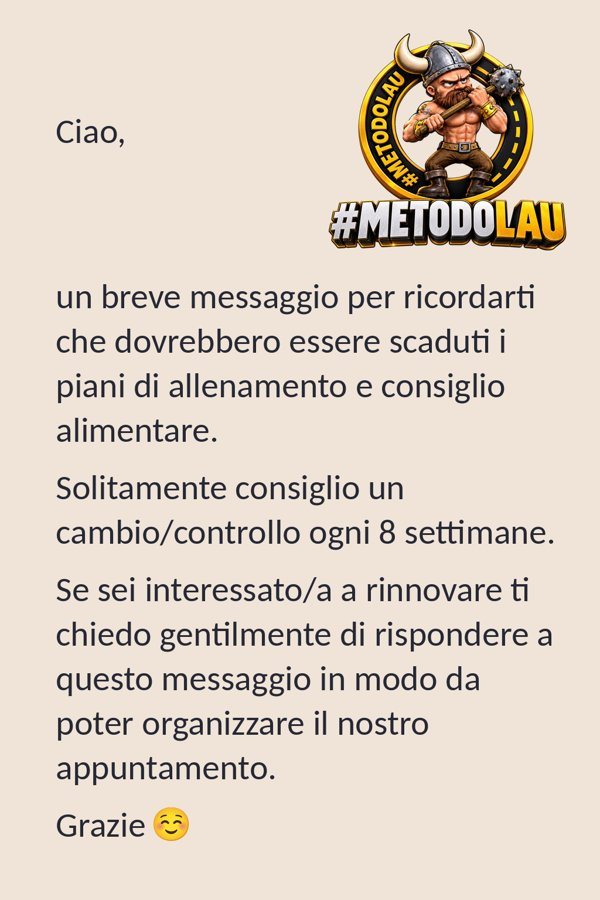
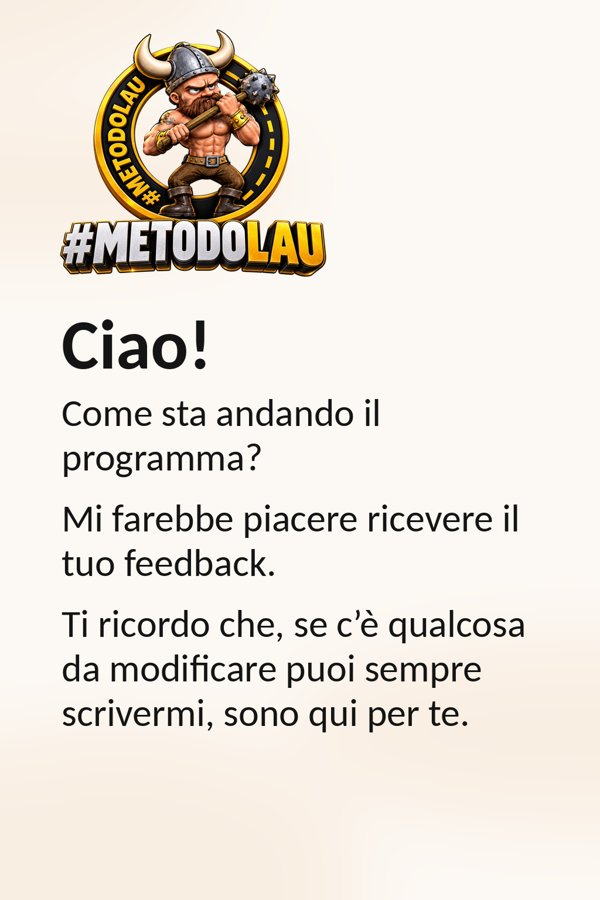
## Corretto - **Immagini riassegnate**: "Ciao! Come sta andando il programma?" → email feedback (3 settimane); "un breve messaggio per ricordarti che dovrebbero essere scaduti…" → email scheda scaduta. - **Testo duplicato rimosso**: dato che il messaggio è già tutto nell'immagine, sotto resta solo i
- Next Action Items:
  - **Ripubblica App**: Pubblica la nuova versione così le email arrivano con le immagini giuste e senza testo doppio
  - **Avviso Terza Disdetta**: Manda all'atleta un'email automatica quando scatta la terza disdetta ricordando che la lezione è dovuta
  - **Reset Password Via Email**: Fai funzionare davvero "Password dimenticata?" inviando un link di reimpostazione all'atleta
  - **Report PDF Plicometria**: Genera il report con logo METODOLAU in PDF da inviare all'atleta dopo ogni check

Emergent-Commit-Key: cbc24069e4ac133dfdd8a9c3be295f10874385692308a461e33171ae9ac910c6

diff --git a/backend/server.py b/backend/server.py
@@ -1335,13 +1335,7 @@ async def send_expired_email(client: dict) -> bool:
             'style="background:#121218;border:1px solid #262633;border-radius:12px;overflow:hidden;font-family:Arial,sans-serif">'
             f'<tr><td><img src="{APP_URL}/email/expired.jpg" alt="Promemoria: scheda scaduta" width="560" '
             'style="display:block;width:100%;max-width:560px;height:auto"></td></tr>'
-            '<tr><td style="padding:28px 32px 32px">'
-            '<div style="color:#F5C518;font-size:12px;letter-spacing:3px;text-transform:uppercase">METODOLAU</div>'
-            f'<h1 style="color:#ffffff;font-size:24px;margin:12px 0 8px">Ciao {name}, ti mando questo messaggio come promemoria.</h1>'
-            f'<p style="{BODY};margin:0 0 12px">Mi risulta che dovrebbero essere scaduti i tempi del consiglio alimentare e della scheda di allenamento '
-            '(i quali consiglio sempre di cambiare dopo 8 settimane).</p>'
-            f'<p style="{BODY};margin:0 0 12px">Se sei interessata/o al rinnovo ti prego di mandarmi conferma, in modo da organizzarmi per un check con una misurazione corporea.</p>'
-            f'<p style="{BODY};margin:0 0 16px"><strong style="color:#F5C518">P.S. Sono sempre gratuite.</strong><br>Grazie e buona giornata</p>'
+            '<tr><td style="padding:24px 32px 32px;text-align:center">'
             f'<a href="{wa}" style="display:inline-block;background:#25D366;color:#ffffff;font-weight:bold;font-size:15px;'
             'text-transform:uppercase;letter-spacing:1px;text-decoration:none;padding:14px 28px;border-radius:8px">Conferma su WhatsApp</a>'
             f'<p style="color:#52525b;font-size:12px;margin:24px 0 0">Inviata da {escape(EMAIL_FROM_NAME)}. Non chiediamo mai password o dati di pagamento via email.</p>'
@@ -1430,14 +1424,9 @@ async def send_feedback_email(client: dict) -> bool:
             'style="background:#121218;border:1px solid #262633;border-radius:12px;overflow:hidden;font-family:Arial,sans-serif">'
             f'<tr><td><img src="{APP_URL}/email/feedback.jpg" alt="Ciao! Come sta andando il programma?" width="560" '
             'style="display:block;width:100%;max-width:560px;height:auto"></td></tr>'
-            '<tr><td style="padding:28px 32px 32px">'
-            '<div style="color:#F5C518;font-size:12px;letter-spacing:3px;text-transform:uppercase">METODOLAU</div>'
-            f'<h1 style="color:#ffffff;font-size:24px;margin:12px 0 8px">Ciao {name}!</h1>'
-            f'<p style="{BODY};margin:0 0 12px">Sono passate 3 settimane dall\'inizio della tua scheda di allenamento: come sta andando il programma?</p>'
-            f'<p style="{BODY};margin:0 0 12px">Mi farebbe piacere ricevere il tuo feedback. Se c\'è qualcosa da modificare o da migliorare, '
-            'non farti problemi a scrivermi: sono qui per sistemarlo insieme a te.</p>'
+            '<tr><td style="padding:24px 32px 32px;text-align:center">'
             f'<a href="{wa_url}" style="display:inline-block;background:#25D366;color:#ffffff;font-weight:bold;font-size:15px;'
-            'text-transform:uppercase;letter-spacing:1px;text-decoration:none;padding:14px 28px;border-radius:8px;margin-top:8px">Scrivimi su WhatsApp</a>'
+            'text-transform:uppercase;letter-spacing:1px;text-decoration:none;padding:14px 28px;border-radius:8px">Scrivimi su WhatsApp</a>'
             f'<p style="color:#52525b;font-size:12px;margin:24px 0 0">Inviata da {escape(EMAIL_FROM_NAME)}. Non chiediamo mai password o dati di pagamento via email.</p>'
             '</td></tr></table></td></tr></table>'
         )

diff --git a/memory/PRD.md b/memory/PRD.md
@@ -115,6 +115,9 @@ Crea un applicazione dove ogni utente potrà vedere la sua scheda di allenamento
 - BUG FIX: il sync calendario cancellava (con email 'annullata') le sessioni appena concluse perché gli eventi passati venivano saltati e poi considerati rimossi → ora gli UID passati vengono marcati come visti e si rimuovono solo sessioni con datetime_local futuro
 - Email 'lezione in regalo' senza conteggio lezioni
 
+## Implemented (2026-06, fork 2 — round 20)
+- Email feedback/scadenza: immagini riassegnate correttamente (feedback = 'Ciao! Come sta andando', expired = 'promemoria scaduti'); rimosso il testo duplicato sotto l'immagine → solo immagine + pulsante WhatsApp + footer
+
 ## Backlog (P1)
 - Storico progressione peso per esercizio (grafico recharts)
 - Duplica scheda tra clienti / template
